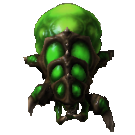
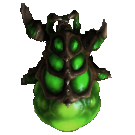
mobs are visually turning

diff --git a/src/graphics/state.rs b/src/graphics/state.rs
@@ -283,11 +283,17 @@ impl State {
         (y + RENDER_DISTANCE as i32) as u32 * TILES_PER_ROW + (x + RENDER_DISTANCE as i32) as u32
     }
 
-    fn draw_at_indices(&self, indices: Vec<(i32, i32)>, render_pass: &mut RenderPass) {
-        for pos in indices {
+    fn draw_at_indices(&self, indices: Vec<(i32, i32)>, render_pass: &mut RenderPass, rotations: Option<Vec<u32>>) {
+        let rots = if rotations.is_some() {
+            rotations.unwrap()
+        } else {
+            vec![0; indices.len()]
+        };
+        for i in 0..indices.len() {
             // Here we want x to be horizontal, like mathematical coords
             // Also, second component should be greater when higher (so negate it)
-            let idx = State::convert_index(pos.1, -pos.0);
+            let pos = indices[i];
+            let idx = State::convert_index(pos.1, -pos.0) + (rots[i] * TILES_PER_ROW.pow(2));
             render_pass.draw_indexed(0..INDICES.len() as u32, 0, idx..idx+1);
         }
     }
@@ -302,31 +308,33 @@ impl State {
         for material in Material::iter() {
             render_pass.set_bind_group(0, self.bind_groups.get_bind_group_material(material), &[]);
             let tiles = self.field.texture_indices(&self.player, material, RENDER_DISTANCE);
-            self.draw_at_indices(tiles, &mut *render_pass);
+            self.draw_at_indices(tiles, &mut *render_pass, None);
         }
 
         // draw depth indicators on top of the tiles
         for i in 0..=3 {
             render_pass.set_bind_group(0, &self.bind_groups.depth_indicators[i], &[]);
             let depth = self.field.depth_indices(&self.player, i+2, RENDER_DISTANCE);
-            self.draw_at_indices(depth, &mut *render_pass);
+            self.draw_at_indices(depth, &mut *render_pass, None);
         }
 
         // draw loot where exists
         render_pass.set_bind_group(0, &self.bind_groups.get_bind_group_loot(), &[]);
         let loot = self.field.loot_indices(&self.player, RENDER_DISTANCE);
-        self.draw_at_indices(loot, &mut *render_pass);
+        self.draw_at_indices(loot, &mut *render_pass, None);
     }
 
     fn render_mobs<'a>(&'a self, render_pass: &mut RenderPass<'a>) {
         let max_drawable_index = ((TILES_PER_ROW - 1) / 2) as i32;
         for mob_kind in MobKind::iter() {
             render_pass.set_bind_group(0, self.bind_groups.get_bind_group_mob(mob_kind), &[]);
-            let mut indices = self.field.mob_indices(&self.player, mob_kind);
-            indices = indices.into_iter().filter(
-                |(x, y)| x.abs() <= max_drawable_index && y.abs() <= max_drawable_index
+            let mut mobs = self.field.mob_indices(&self.player, mob_kind);
+            mobs = mobs.into_iter().filter(
+                |(x, y, _)| x.abs() <= max_drawable_index && y.abs() <= max_drawable_index
             ).collect();
-            self.draw_at_indices(indices, &mut *render_pass);
+            let rotations: Vec<u32> = mobs.clone().into_iter().map(|(x, y, rot)| rot).collect();
+            let positions = mobs.into_iter().map(|(x, y, rot)| (x, y)).collect();
+            self.draw_at_indices(positions, &mut *render_pass, Some(rotations));
         }
     }
 

diff --git a/src/graphics/buffers.rs b/src/graphics/buffers.rs
@@ -19,20 +19,28 @@ pub struct Buffers {
 
 impl Buffers {
     pub fn new(device: &Device) -> Self {
-        let instances = (0..TILES_PER_ROW).flat_map(|y| {
-            (0..TILES_PER_ROW).map(move |x| {
-                let position =
-                    cgmath::Vector3 { x: x as f32 * DISP_COEF, y: y as f32 * DISP_COEF, z: 0.0 }
-                        + INITIAL_POS;
+        let instances = (0..4).flat_map(|angle| {
+            let x_rot_compensation = if angle == 1 || angle == 2 { 1 } else { 0 };
+            let y_rot_compensation = if angle > 1 { 1 } else { 0 };
+            (0..TILES_PER_ROW).flat_map(move |y| {
+                (0..TILES_PER_ROW).map(move |x| {
+                    let position =
+                        cgmath::Vector3 {
+                            x: (x + x_rot_compensation) as f32 * DISP_COEF,
+                            y: (y + y_rot_compensation) as f32 * DISP_COEF,
+                            z: 0.0
+                        }
+                            + INITIAL_POS;
 
-                let rotation =
-                    cgmath::Quaternion::from_axis_angle(cgmath::Vector3::unit_z(), cgmath::Deg(0.0));
+                    let rotation =
+                        cgmath::Quaternion::from_axis_angle(cgmath::Vector3::unit_z(), cgmath::Deg(90.0 * angle as f32));
 
-                Instance {
-                    position,
-                    rotation,
-                    scaling: DISP_COEF,
-                }
+                    Instance {
+                        position,
+                        rotation,
+                        scaling: DISP_COEF,
+                    }
+                })
             })
         }).collect::<Vec<_>>();
 
@@ -60,7 +68,7 @@ impl Buffers {
                 cgmath::Vector3 {
                     x: (((TILES_PER_ROW - 1) / 2) + x_rot_compensation) as f32 * DISP_COEF,
                     y: (((TILES_PER_ROW - 1) / 2) + y_rot_compensation) as f32 * DISP_COEF,
-                    z: 0.0
+                    z: 0.0,
                 }
                     + INITIAL_POS;
 

diff --git a/src/map_generation/mobs/mob.rs b/src/map_generation/mobs/mob.rs
@@ -18,6 +18,7 @@ pub struct Position {
 
 pub struct Mob {
     pub pos: Position,
+    rotation: i32,
     kind: MobKind,
     hp: i32,
     /// when this reaches 1, the mob is eligible to act
@@ -28,6 +29,7 @@ impl Mob {
     pub fn new(pos: Position, kind: MobKind) -> Self {
         Mob {
             pos,
+            rotation: 0,
             kind,
             hp: kind.get_max_hp(),
             speed_buffer: 0.,
@@ -48,6 +50,7 @@ impl Mob {
             min_loaded.1 <= new_pos.1 && new_pos.1 <= max_loaded.1 &&
             can_step(field, (self.pos.x, self.pos.y), new_pos, self.pos.z) {
 
+            self.set_rotation(Self::coords_to_rotation(delta));
             if player.x == new_pos.0 && player.y == new_pos.1 {
                 player.receive_damage(self.kind.get_melee_damage());
             } else {
@@ -174,6 +177,30 @@ impl Mob {
 
     pub fn is_alive(&self) -> bool {
         self.hp > 0
+    }
+
+    fn coords_to_rotation(coords: (i32, i32)) -> i32 {
+        match coords {
+            (-1, 0) => 0,
+            (0, -1) => 1,
+            (1, 0) => 2,
+            (0, 1) => 3,
+            _ => panic!("bad coords {}, {}", coords.0, coords.1)
+        }
+    }
+
+    fn set_rotation(&mut self, rotation: i32) {
+        self.rotation = rotation
+    }
+
+    /// Computes rotation as an integer between 0 and 4, where 0 is up, and 3 is right.
+    pub fn get_rotation(&self) -> u32 {
+        let modulus = self.rotation % 4;
+        if modulus >= 0 {
+            modulus as u32
+        } else {
+            (modulus + 4) as u32
+        }
     }
 }
 

diff --git a/src/map_generation/field.rs b/src/map_generation/field.rs
@@ -383,14 +383,15 @@ impl Field {
         res
     }
 
-    pub fn mob_indices(&self, player: &Player, kind: MobKind) -> Vec<(i32, i32)> {
-        let mut res: Vec<(i32, i32)> = Vec::new();
+    /// Makes a list of positions with mobs of this kind on them, and their corresponding rotations.
+    pub fn mob_indices(&self, player: &Player, kind: MobKind) -> Vec<(i32, i32, u32)> {
+        let mut res: Vec<(i32, i32, u32)> = Vec::new();
 
         for i in 0..self.loaded_chunks.len() {
             for j in 0..self.loaded_chunks[i].len() {
                 for m in self.loaded_chunks[i][j].borrow().get_mobs() {
                     if m.get_kind() == &kind {
-                        res.push((m.pos.x - player.x, m.pos.y - player.y))
+                        res.push((m.pos.x - player.x, m.pos.y - player.y, m.get_rotation()));
                     }
                 }
             }
